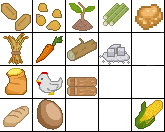
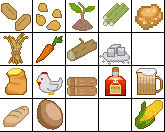
Tarven Update start and some work on updating collision mesh

Changed region(s): [[0.8182, 0.5152, 1.0, 0.7273], [0.6364, 0.4848, 0.7879, 0.7273]]

diff --git a/BaseBuilder/Engine/Math2D/Double/CollisionMeshD2D.cs b/BaseBuilder/Engine/Math2D/Double/CollisionMeshD2D.cs
@@ -1,4 +1,5 @@
-using Lidgren.Network;
+using BaseBuilder.Engine.Logic;
+using Lidgren.Network;
 using System;
 using System.Collections.Generic;
 using System.Linq;
@@ -29,6 +30,82 @@ namespace BaseBuilder.Engine.Math2D.Double
         public double Top { get; protected set; }
         public double Bottom { get; protected set; }
 
+        protected List<FiniteLineD2D> _Lines;
+        public List<FiniteLineD2D> Lines
+        {
+            get
+            {
+                if (_Lines == null)
+                {
+                    var naive = new List<FiniteLineD2D>();
+                    foreach(var poly in Polygons)
+                    {
+                        foreach (var line in poly.Lines)
+                        {
+                            //LogicUtils.BinaryInsert(naive, line, (line1, line2) => Math.Sign(line2.LengthSquared - line1.LengthSquared));
+                            naive.Add(line);
+                        }
+                    }
+
+                    for (int outerLineIndex = 0; outerLineIndex < naive.Count; outerLineIndex++)
+                    {
+                        var outerLine = naive[outerLineIndex];
+                        var outerLineAxisProj = outerLine.ProjectOntoAxis(outerLine.Axis.UnitVector);
+                        var outerLineNormalProj = outerLine.ProjectOntoAxis(outerLine.Normal.UnitVector);
+                        var outerLineNormalPoint = outerLineNormalProj.AsPointD2D();
+                        for (int innerLineIndex = outerLineIndex + 1; innerLineIndex < naive.Count; innerLineIndex++)
+                        {
+                            var innerLine = naive[innerLineIndex];
+                            if (!innerLine.Axis.UnitVector.IsParallel(outerLine.Axis.UnitVector))
+                                continue;
+                            var innerLineNormalProj = innerLine.ProjectOntoAxis(outerLine.Normal.UnitVector);
+                            if (outerLineNormalProj.Start != innerLineNormalProj.Start)
+                                continue;
+                            var innerLineAxisProj = innerLine.ProjectOntoAxis(outerLine.Axis.UnitVector);
+                            var intersection = outerLineAxisProj.IntersectionLine(innerLineAxisProj);
+                            if (intersection == null)
+                                continue;
+                            if (outerLineAxisProj.Min != intersection.Min)
+                            {
+                                var newLine1D = new OneDimensionalLine(intersection.Axis, outerLineAxisProj.Min, intersection.Min);
+                                var asLine = newLine1D.AsFiniteLineD2D();
+                                asLine = asLine.Shift(outerLineNormalPoint.X, outerLineNormalPoint.Y);
+                                naive.Add(asLine);
+                            }
+                            if (outerLineAxisProj.Max != intersection.Max)
+                            {
+                                var newLine1D = new OneDimensionalLine(intersection.Axis, intersection.Max, outerLineAxisProj.Max);
+                                var asLine = newLine1D.AsFiniteLineD2D();
+                                asLine = asLine.Shift(outerLineNormalPoint.X, outerLineNormalPoint.Y);
+                                naive.Add(asLine);
+                            }
+
+                            if (innerLineAxisProj.Min != intersection.Min)
+                            {
+                                var newLine1D = new OneDimensionalLine(intersection.Axis, innerLineAxisProj.Min, intersection.Min);
+                                var asLine = newLine1D.AsFiniteLineD2D();
+                                asLine = asLine.Shift(outerLineNormalPoint.X, outerLineNormalPoint.Y);
+                                naive.Add(asLine);
+                            }
+                            if (innerLineAxisProj.Max != intersection.Max)
+                            {
+                                var newLine1D = new OneDimensionalLine(intersection.Axis, intersection.Max, innerLineAxisProj.Max);
+                                var asLine = newLine1D.AsFiniteLineD2D();
+                                asLine = asLine.Shift(outerLineNormalPoint.X, outerLineNormalPoint.Y);
+                                naive.Add(asLine);
+                            }
+
+                            naive.RemoveAt(innerLineIndex);
+                            naive.RemoveAt(outerLineIndex);
+                            outerLineIndex--;
+                            break;
+                        }
+                    }
+                    _Lines = naive;
+                }
+                return _Lines;
+            }
+        }
         /// <summary>
         /// Create the collision mesh containing the specified polygons
         /// </summary>

diff --git a/BaseBuilder/Engine/World/Entities/ImmobileEntities/HarvestableEntities/Tavern2.cs b/BaseBuilder/Engine/World/Entities/ImmobileEntities/HarvestableEntities/Tavern2.cs
@@ -1,0 +1,106 @@
+using BaseBuilder.Engine.Context;
+using BaseBuilder.Engine.Math2D.Double;
+using BaseBuilder.Engine.State;
+using BaseBuilder.Engine.State.Resources;
+using BaseBuilder.Engine.World.Entities.Utilities;
+using Lidgren.Network;
+using Microsoft.Xna.Framework;
+using System;
+using System.Collections.Generic;
+using System.Linq;
+using System.Text;
+using System.Threading.Tasks;
+
+namespace BaseBuilder.Engine.World.Entities.ImmobileEntities.HarvestableEntities
+{
+    class Tavern2 : HarvestableEntity
+    {
+        protected static CollisionMeshD2D _CollisionMesh;
+        protected static List<HarvestableRecipe> _Recipes;
+
+        protected static Rectangle SourceRec = new Rectangle(0, 0, 218, 212);
+
+        static Tavern2()
+        {
+            double scale = 1 / 32.0;
+            var pixelPolys = new List<List<PointD2D>>
+            {
+                new List<PointD2D> { new PointD2D(0, 90), new PointD2D(30, 60), new PointD2D(33, 60), new PointD2D(52, 78), new PointD2D(52, 168), new PointD2D(0, 168) },
+                new List<PointD2D> { new PointD2D(52, 80), new PointD2D(102, 80), new PointD2D(102, 168), new PointD2D(52, 168) },
+                new List<PointD2D> { new PointD2D(102, 80), new PointD2D(120, 60), new PointD2D(154, 90), new PointD2D(154, 168), new PointD2D(102, 168) },
+                new List<PointD2D> { new PointD2D(154, 0), new PointD2D(218, 0), new PointD2D(218, 212), new PointD2D(154, 212) },
+
+                new List<PointD2D> { new PointD2D(60, 168), new PointD2D(60, 174), new PointD2D(70, 186), new PointD2D(102, 181), new PointD2D(102, 168) }
+            };
+
+            var worldPolys = new List<PolygonD2D>();
+            foreach (var poly in pixelPolys)
+            {
+                var worldList = new List<PointD2D>();
+                foreach (var pixelP in poly)
+                {
+                    worldList.Add(new PointD2D(pixelP.X * scale, pixelP.Y * scale));
+                }
+
+                worldPolys.Add(new PolygonD2D(worldList));
+            }
+
+            _CollisionMesh = new CollisionMeshD2D(worldPolys);
+
+            _Recipes = new List<HarvestableRecipe>
+            {
+                new HarvestableRecipe(new List<Tuple<Material, int>> { Tuple.Create(Material.Sugarcane, 3) }, new List<Tuple<Material, int>> { Tuple.Create(Material.Rum, 1) }, 10000)
+            };
+        }
+
+        protected SpriteRenderer Renderer;
+
+        public Tavern2(PointD2D position, int id) : base(position, _CollisionMesh, id, _Recipes, 1)
+        {
+            CollisionMesh = _CollisionMesh;
+            Renderer = new SpriteRenderer("Tavern", SourceRec);
+
+            Inventory = new EntityInventory(1);
+            Inventory.SetDefaultStackSize(10);
+            OutputInventory = new EntityInventory(1);
+            OutputInventory.SetDefaultStackSize(10);
+            InitRecipeListeners();
+        }
+
+        public Tavern2()
+        {
+
+        }
+
+        public override void FromMessage(SharedGameState gameState, NetIncomingMessage message)
+        {
+            Position = new PointD2D(message);
+            ID = message.ReadInt32();
+            Inventory = new EntityInventory(message);
+            OutputInventory = new EntityInventory(message);
+            Recipes = _Recipes;
+            CraftSpeed = 1;
+            CurrentCraftFromMessage(message);
+
+            InitRecipeListeners();
+
+            TasksFromMessage(gameState, message);
+        }
+
+        public override void Write(NetOutgoingMessage message)
+        {
+            Position.Write(message);
+            message.Write(ID);
+            Inventory.Write(message);
+            OutputInventory.Write(message);
+            WriteCurrentCraft(message);
+
+            WriteTasks(message);
+        }
+
+        public override void Render(RenderContext context, PointD2D screenTopLeft, Color overlay)
+        {
+            Renderer?.Render(context, (int)screenTopLeft.X, (int)screenTopLeft.Y, 218 / 32.0, 212 / 32.0, overlay);
+        }
+    }
+}

diff --git a/BaseBuilder/Engine/Logic/WorldGen/WorldGenerator.cs b/BaseBuilder/Engine/Logic/WorldGen/WorldGenerator.cs
@@ -94,10 +94,14 @@ namespace BaseBuilder.Engine.Logic.WorldGen
             tmp.Inventory.AddMaterial(Material.WheatSeed, 1);
             tmp.Inventory.AddMaterial(Material.CarrotSeed, 1);
             tmp.Inventory.AddMaterial(Material.Sugarcane, 1);
-
-            tmp.Inventory.AddMaterial(Material.Flour, 1);
-            tmp.Inventory.AddMaterial(Material.Sugar, 1);
-            tmp.Inventory.AddMaterial(Material.Egg, 1);
+            // Rum ingredients
+            tmp.Inventory.AddMaterial(Material.Sugarcane, 3);
+            
+             // Bread ingredients
+            //tmp.Inventory.AddMaterial(Material.Wheat, 1);
+            //tmp.Inventory.AddMaterial(Material.Sugar, 1);
+            //tmp.Inventory.AddMaterial(Material.Egg, 1);
+            
             TileWorld.AddMobileEntity(tmp);
             TileWorld.AddMobileEntity(new CaveManWorker(new PointD2D(wcx - 2, wcy + 1), SharedGameState.EntityIDCounter++));
             TileWorld.AddMobileEntity(new CaveManWorker(new PointD2D(wcx - 1, wcy + 2), SharedGameState.EntityIDCounter++));
@@ -132,10 +136,10 @@ namespace BaseBuilder.Engine.Logic.WorldGen
             TileWorld.AddImmobileEntity(new Farm(new PointD2D(wcx - 15, wcy + 5), SharedGameState.EntityIDCounter++));
             TileWorld.AddImmobileEntity(new Farm(new PointD2D(wcx - 15, wcy + 0), SharedGameState.EntityIDCounter++));
             TileWorld.AddImmobileEntity(new Farm(new PointD2D(wcx - 15, wcy - 5), SharedGameState.EntityIDCounter++));
-            TileWorld.AddImmobileEntity(new WaterMill2(new PointD2D(wcx - 30, wcy + 5), SharedGameState.EntityIDCounter++));
+            TileWorld.AddImmobileEntity(new WaterMill2(new PointD2D(wcx - 30, wcy + 5), SharedGameState.EntityIDCounter++));*/
             TileWorld.AddImmobileEntity(new Bakery(new PointD2D(wcx - 10, wcy - 15), SharedGameState.EntityIDCounter++));
-            TileWorld.AddImmobileEntity(new Tavern(new PointD2D(wcx + 10, wcy - 15), SharedGameState.EntityIDCounter++));
-            TileWorld.AddImmobileEntity(new Library(new PointD2D(wcx + 30, wcy - 15), SharedGameState.EntityIDCounter++));
+            TileWorld.AddImmobileEntity(new Tavern2(new PointD2D(wcx + 10, wcy - 15), SharedGameState.EntityIDCounter++));
+            /*TileWorld.AddImmobileEntity(new Library(new PointD2D(wcx + 30, wcy - 15), SharedGameState.EntityIDCounter++));
             TileWorld.AddImmobileEntity(new Temple(new PointD2D(wcx + 40, wcy - 15), SharedGameState.EntityIDCounter++));
             TileWorld.AddImmobileEntity(new LumberMill(new PointD2D(wcx + 10, wcy - 0), SharedGameState.EntityIDCounter++));
             */

diff --git a/BaseBuilder/Engine/State/Resources/Material.cs b/BaseBuilder/Engine/State/Resources/Material.cs
@@ -25,6 +25,7 @@ namespace BaseBuilder.Engine.State.Resources
         public static Material Bread { get; }
         public static Material Sugarcane { get; }
         public static Material Sugar { get; }
+        public static Material Rum { get; }
         public static Material Wood { get; }
         public static Material Lumber { get; }
         public static Material Sapling { get; }
@@ -52,6 +53,7 @@ namespace BaseBuilder.Engine.State.Resources
 
             Sugarcane = new Material("materials", new Rectangle(99, 0, 32, 32), "Sugarcane", "Sugarcane\nCan be milled into sugar or planted for more sugarcane.", 8);
             Sugar = new Material("materials", new Rectangle(99, 33, 32, 32), "Sugar", "Sugar\nUsed in many finished food.", 9);
+            Rum = new Material("materials", new Rectangle(99, 66, 32, 32), "Rum", "Rum\n.", 9);
 
             Sapling = new Material("materials", new Rectangle(66, 0, 32, 32), "Sapling", "Sapling\nCan be planted for new trees.", 10);
             Wood = new Material("materials", new Rectangle(66, 33, 32, 32), "Wood", "Wood\nCan be made into lumber via a lumbermill.", 11);
@@ -119,6 +121,8 @@ namespace BaseBuilder.Engine.State.Resources
                 return Chicken;
             if (id == Egg.ID)
                 return Egg;
+            if (id == Rum.ID)
+                return Rum;
 
             throw new InvalidProgramException($"No material with id {id}");
         }

diff --git a/BaseBuilder/Engine/Math2D/Double/VectorD2D.cs b/BaseBuilder/Engine/Math2D/Double/VectorD2D.cs
@@ -116,8 +116,16 @@ namespace BaseBuilder.Engine.Math2D.Double
         {
             get
             {
+                // Fixes rounding
                 if (!_CosTheta.HasValue)
-                    _CosTheta = Math.Cos(Theta);
+                {
+                    if (DeltaX == 0)
+                        _CosTheta = 0;
+                    else if (DeltaY == 0)
+                        _CosTheta = Math.Sign(DeltaX);
+                    else
+                        _CosTheta = Math.Cos(Theta);
+                }
 
                 return _CosTheta.Value;
             }
@@ -133,7 +141,14 @@ namespace BaseBuilder.Engine.Math2D.Double
             get
             {
                 if (!_SinTheta.HasValue)
-                    _SinTheta = Math.Sin(Theta);
+                {
+                    if (DeltaX == 0)
+                        _SinTheta = Math.Sign(DeltaY);
+                    else if (DeltaY == 0)
+                        _SinTheta = 0;
+                    else
+                        _SinTheta = Math.Sin(Theta);
+                }
 
                 return _SinTheta.Value;
             }

diff --git a/BaseBuilder/Engine/World/Entities/ImmobileEntities/HarvestableEntities/Bakery.cs b/BaseBuilder/Engine/World/Entities/ImmobileEntities/HarvestableEntities/Bakery.cs
@@ -25,7 +25,12 @@ namespace BaseBuilder.Engine.World.Entities.ImmobileEntities.HarvestableEntities
 
         static Bakery()
         {
-            _CollisionMesh = new CollisionMeshD2D(new List<PolygonD2D> { new RectangleD2D(5, 3.5) });
+            //_CollisionMesh = new CollisionMeshD2D(new List<PolygonD2D> { new RectangleD2D(5, 3.5) });
+
+            _CollisionMesh = new CollisionMeshD2D(new List<PolygonD2D> {
+                new PolygonD2D(new List<PointD2D> { new PointD2D(0, 0), new PointD2D(2.5, 0), new PointD2D(2.5, 3.5), new PointD2D(0, 3.5), }),
+                new PolygonD2D(new List<PointD2D> { new PointD2D(2.5, 0), new PointD2D(5, 0), new PointD2D(5, 4.5), new PointD2D(2.5, 4.5) })
+            });
 
             _Recipes = new List<HarvestableRecipe>
             {

diff --git a/BaseBuilder/Engine/Math2D/Double/OneDimensionalLine.cs b/BaseBuilder/Engine/Math2D/Double/OneDimensionalLine.cs
@@ -97,7 +97,7 @@ namespace BaseBuilder.Engine.Math2D.Double
         {
             get
             {
-                return Start == End;
+                return EpsilonEqual(Start, End);
             }
         }
 
@@ -246,8 +246,8 @@ namespace BaseBuilder.Engine.Math2D.Double
             if (!IsPoint)
                 throw new InvalidOperationException("This line is not a point - you should have checked using IsPoint. The correct method is AsVectorD2D");
 
-            var cosTheta = Math.Cos(Axis.Theta);
-            var sinTheta = Math.Sin(Axis.Theta);
+            var cosTheta = Axis.CosTheta;
+            var sinTheta = Axis.SinTheta;
 
             return new PointD2D(Start * cosTheta, Start * sinTheta);
         }

diff --git a/BaseBuilder/Screens/GameScreens/TaskOverlays/TaskItems/MaterialComboBoxItem.cs b/BaseBuilder/Screens/GameScreens/TaskOverlays/TaskItems/MaterialComboBoxItem.cs
@@ -29,6 +29,7 @@ namespace BaseBuilder.Screens.GameScreens.TaskOverlays.TaskItems
                 new MaterialComboBoxItem(font, Material.Sapling),
                 new MaterialComboBoxItem(font, Material.Sugar),
                 new MaterialComboBoxItem(font, Material.Sugarcane),
+                new MaterialComboBoxItem(font, Material.Rum),
                 new MaterialComboBoxItem(font, Material.Wheat),
                 new MaterialComboBoxItem(font, Material.WheatSeed),
                 new MaterialComboBoxItem(font, Material.Wood),

diff --git a/BaseBuilder/Engine/Logic/LocalGameLogic.cs b/BaseBuilder/Engine/Logic/LocalGameLogic.cs
@@ -362,7 +362,7 @@ namespace BaseBuilder.Engine.Logic
             };
 
             var goodEnoughDistance = 0;// e1.CollisionMesh.MinDistanceTo(e2.CollisionMesh, e1.Position, e2.Position);
-            foreach(var line in e2.CollisionMesh.BoundingBox.Lines)
+            foreach(var line in e2.CollisionMesh.Lines)
             {
                 tryLine(line, e2.Position);
                 if (best != null && bestDistance <= goodEnoughDistance)
